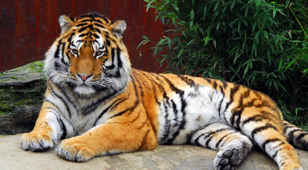
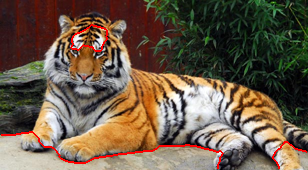
Works on mixture_prob. Works for L=1

diff --git a/solutions/my_functions/mixture_prob.m b/solutions/my_functions/mixture_prob.m
@@ -3,6 +3,8 @@ function prob = mixture_prob(image, K, L, mask)
   % The height and width of the image
   [height, width, ~] = size(image);
 
+  HW = height * width;
+
   % Reshape image into 2D
   image_vec = single(reshape(image, width * height, 3));
 
@@ -10,17 +12,18 @@ function prob = mixture_prob(image, K, L, mask)
   % Identify the indices of the non-zero pixels
   mask_non_zeros = find(mask);
 
-  % The size of the mask
-  N = size(mask_non_zeros, 1);
+  % The image masked
+  image_masked = image .* repmat(mask, [1 1 3]);
 
-  % The mask translated into the image
-  image_masked = image_vec(mask_non_zeros, :, :);
-
-  image_masked_resh = reshape(image_masked, N, 1, 3);
+  % The masked image in 2D
+  image_masked_vec = im2double(reshape(image_masked, HW, 3));
 
   % --------- Randomly initialize the K components using masked pixels ---------
   % mu_k -> centers
-  [segmentation centers] = kmeans_segm(image_masked_resh, K, L, 1421);
+  [segmentation centers] = kmeans_segm(image_masked, K, L, 1421);
+
+  % Reshape segmentation into one column
+  segmentation = reshape(segmentation, size(segmentation,1) * size(segmentation,2), 1);
 
   % sigma_k
   cov = cell(K,1);
@@ -33,24 +36,26 @@ function prob = mixture_prob(image, K, L, mask)
     w(i) = sum(segmentation(:,1) == i);
   end
 
+
   % Initialize p(i,k) for the masked pixels
-  p = zeros(N, K);
+  p = zeros(HW, K);
 
   % Initialize g(i,k) for the masked pixels
-  g = zeros(N, K);
+  g = zeros(HW, K);
+
+  % The nominator of Step 1
+  nom = zeros(HW, K);
 
   % Iterate L times
-  for l = 1:L
+  for l = 1:2
 
     % The denominator of Step 1
-    sum_denom = zeros(N, 1);
-
-    % The nominator of Step 1
-    nom = zeros(N, K);
+    sum_denom = zeros(HW, 1);
 
     % ------ Expectation: Compute probabilities P_ik using masked pixels -------
     for kernel = 1:K
-      diff = bsxfun(@minus, image_masked, centers(kernel, :));
+
+      diff = bsxfun(@minus, image_masked_vec, centers(kernel, :));
 
       g(:,kernel) = ((2 * pi)^3 * det(cov{kernel}))^(-1/2) * ...
         exp(-0.5 * sum(diff * inv(cov{kernel}) .* diff, 2));
@@ -61,21 +66,32 @@ function prob = mixture_prob(image, K, L, mask)
     end
 
     for kernel = 1:K
-      p(:,kernel) = nom(:,kernel) ./ sum_denom;
+      p(:,kernel) = nom(:,kernel) .* spfun(@(x) 1./x, sum_denom);
     end
 
 
     % Maximization: Update weights, means and covariances using masked pixels --
     for kernel = 1:K
-      w(kernel) = sum(p(:, kernel), 1) / N;
+      w(kernel) = sum(p(:, kernel), 1) / HW;
 
-      centers(kernel, :) = p(:,kernel)' * image_masked / sum(p(:, kernel), 1);
+      if sum(p(:, kernel), 1) ~= 0
+        centers(kernel, :) = p(:,kernel)' * image_masked_vec / sum(p(:, kernel), 1);
+      end
     end
+
 
     for kernel = 1:K
-      diff = bsxfun(@minus, image_masked, centers(kernel, :));
-      cov{kernel} = sum(p(:, kernel)' * diff * diff') / sum(p(:, kernel), 1) * eye(3);
+
+      diff = bsxfun(@minus, image_masked_vec, centers(kernel, :));
+
+      if sum(p(:, kernel), 1) ~= 0
+        cov{kernel} = (sum(p(:, kernel)' * diff * diff') / sum(p(:, kernel), 1)) * eye(3);
+      end
+
     end
+
   end
+
+  prob = reshape(g*w, height, width, 1);
 
 end
